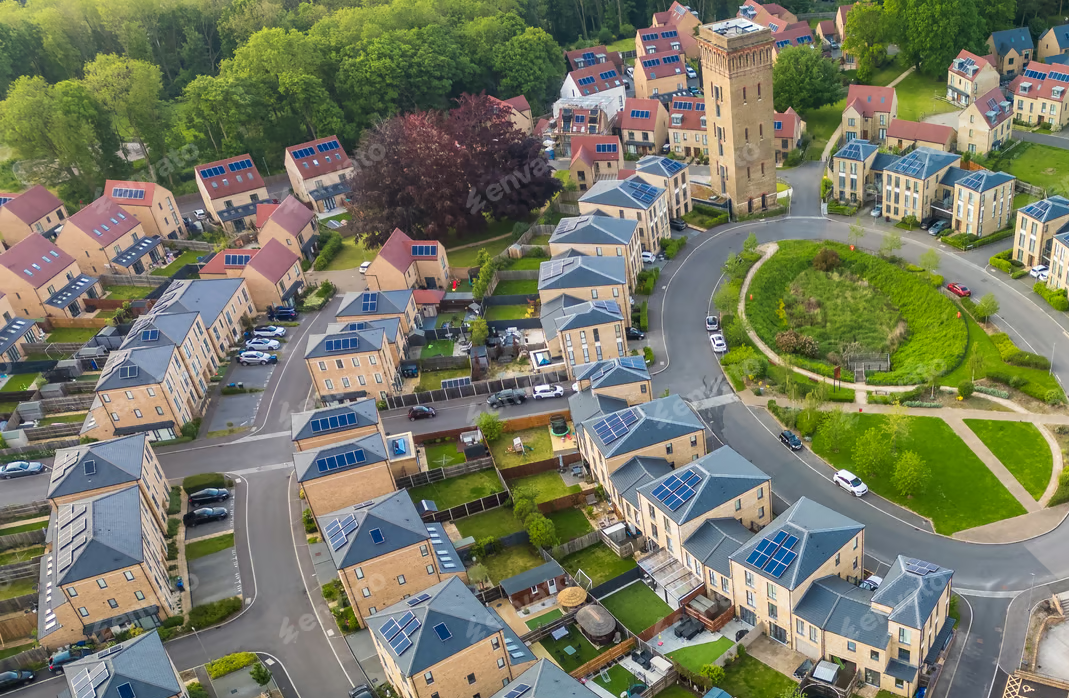
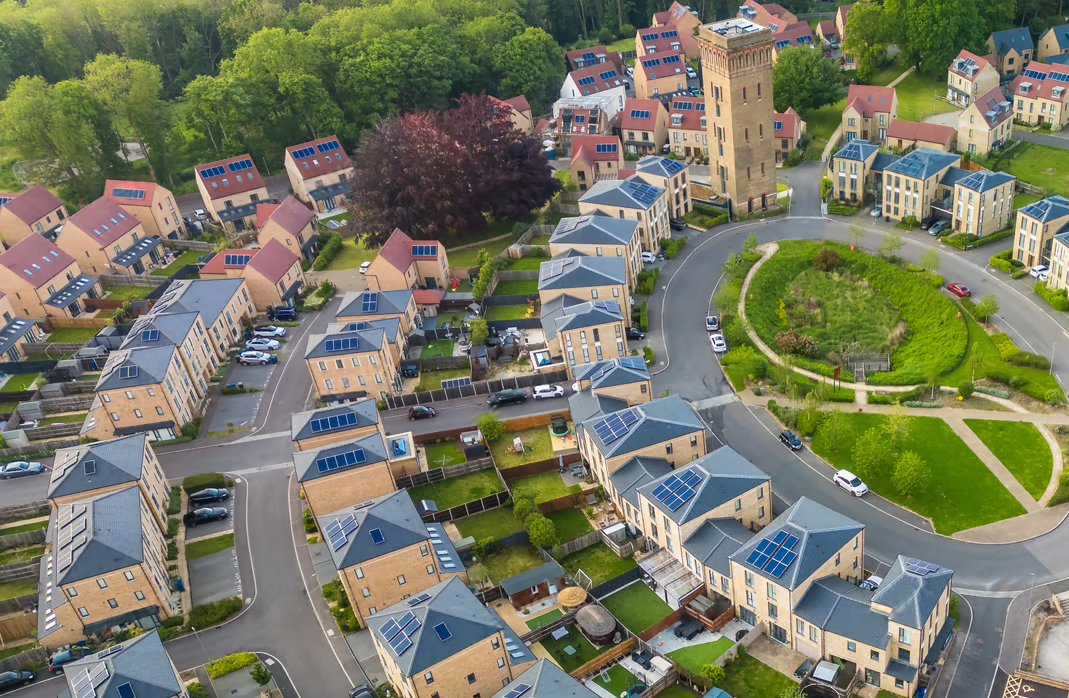
watermarks removed

diff --git a/index.html b/index.html
@@ -29,7 +29,7 @@
         </div>
 
 <div class="hero">
-        <div class="heroimg"><img src="/images/portsmouth.png"/></div>
+        <div class="heroimg"><img src="/images/portsmouth-nw.png"/></div>
         <div class="herocard">
             <!--<h2 class="heroheading">Place Marketing to influence hearts and minds</h2>-->
             <div class="pmpholder">

diff --git a/css/styles.css b/css/styles.css
@@ -1704,8 +1704,9 @@ background: var(--Brand-Orange, #FC7D57);
     padding-block: 1rem;
   }
   .toggle-checkbox:checked + .card-content .arrow img{
-    content: url('/images/close.svg')
+    content: url('/images/close.svg');
   }
+
 
   .cta-section{
     grid-template-rows: repeat(9, 3.75rem);
